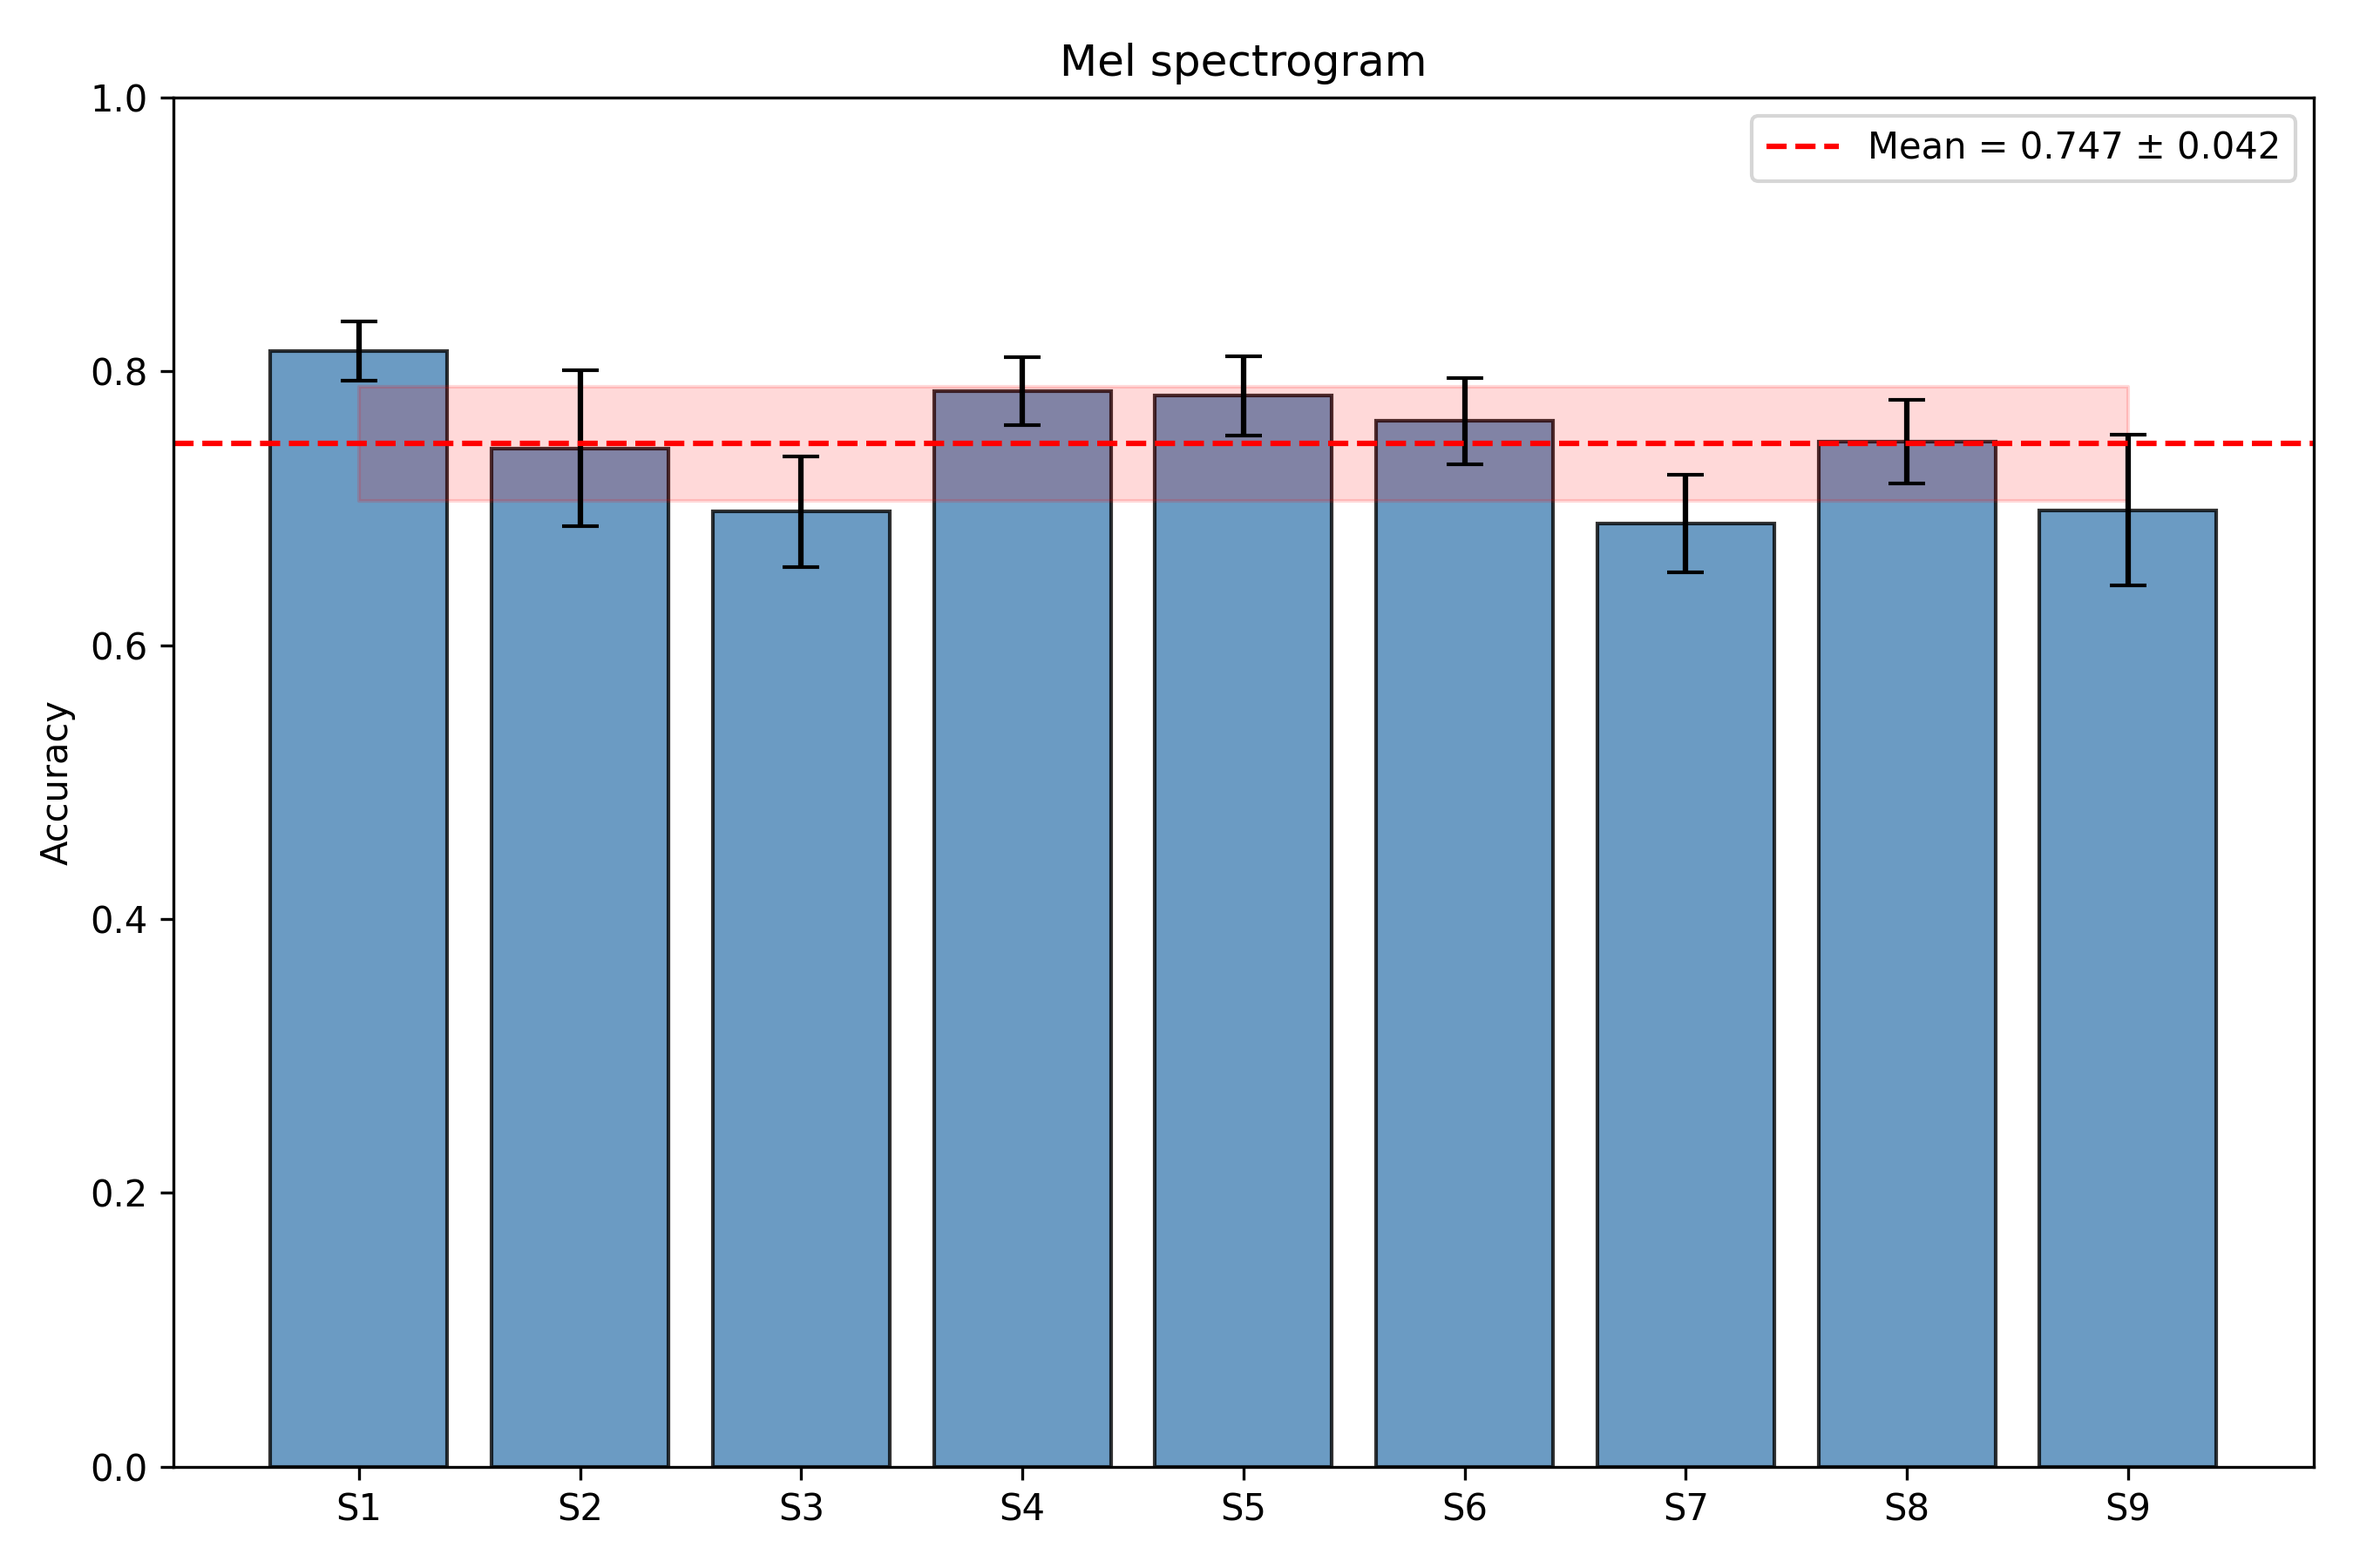
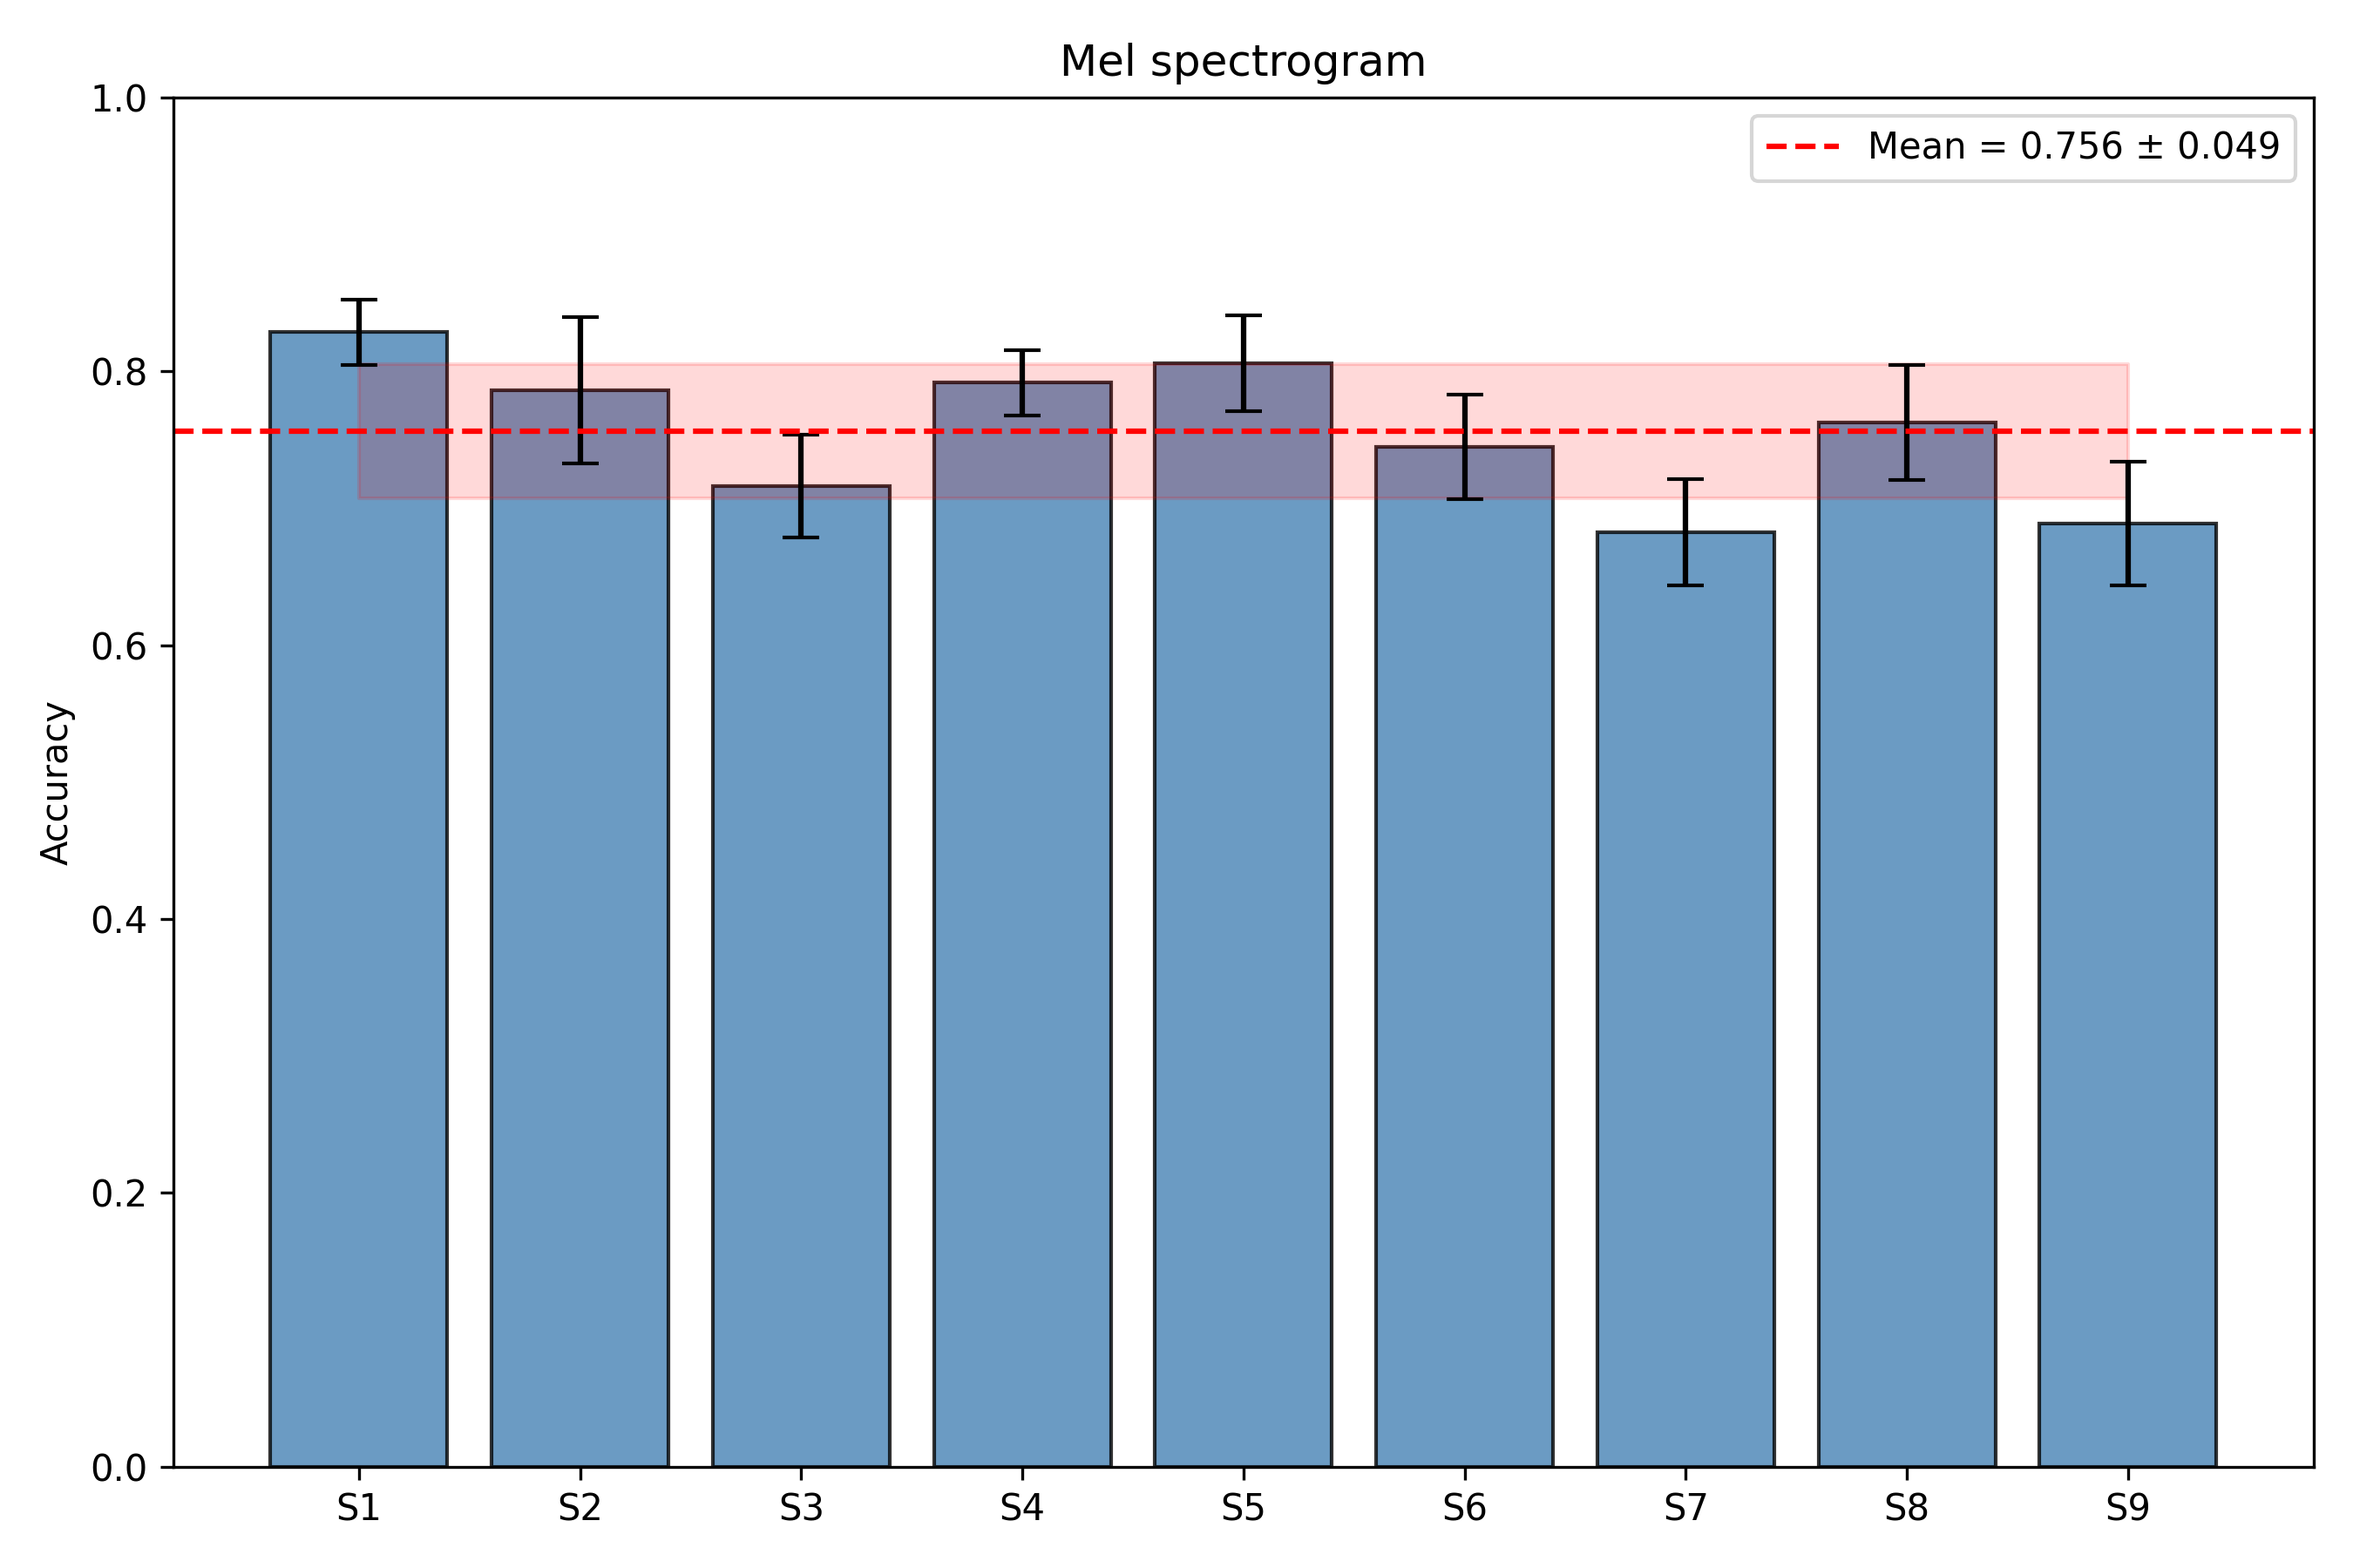
best

Changed region(s): [[0.1244, 0.1867, 0.9644, 0.3422]]

diff --git a/MEL_with_EEGNet_last.py b/MEL_with_EEGNet_last.py
@@ -14,7 +14,7 @@ DATA_DIR = "./dataset/"
 SAVE_DIR = "./Results_Mel"
 os.makedirs(SAVE_DIR, exist_ok=True)
 
-N_MELS, N_FFT, HOP = 32, 128, 64
+N_MELS, N_FFT, HOP = 16, 128, 32
 BATCH, EPOCHS, LR, SEED = 16, 50, 1e-3, 42
 torch.manual_seed(SEED); np.random.seed(SEED)
 
@@ -72,7 +72,7 @@ def load_bci2b_mel(path=DATA_DIR):
 # EEGNet
 # ------------------------------
 class EEGNet(nn.Module):
-    def __init__(self,chans,samples,n_classes=2,dropout=0.5,kernLength=64,F1=8,D=2,F2=16):
+    def __init__(self,chans,samples,n_classes=2,dropout=0.5,kernLength=16,F1=8,D=2,F2=16):
         super().__init__()
         self.conv1=nn.Conv2d(1,F1,(1,kernLength),padding=(0,kernLength//2),bias=False)
         self.bn1=nn.BatchNorm2d(F1)
@@ -198,5 +198,29 @@ def main_mel():
         results_mean.append(np.mean(accs)); results_std.append(np.std(accs))
         print(f" → Subject {subj}: {np.mean(accs):.3f} ± {np.std(accs):.3f}")
 
+            # =========================================
+    # ✅ 전체 결과 바그래프 (Mean ± SD 포함)
+    # =========================================
+    om, osd = np.mean(results_mean), np.std(results_mean)
+    np.savetxt(os.path.join(SAVE_DIR, "overall_summary.txt"), [om, osd], fmt="%.4f")
+
+    plt.figure(figsize=(9,6))
+    x = np.arange(len(subjects))
+    plt.bar(x, results_mean, yerr=results_std, capsize=5, color='steelblue', edgecolor='black', alpha=0.8)
+
+    # 평균선 + 범례에 Mean ± SD 표시
+    plt.axhline(om, color='red', linestyle='--', label=f'Mean = {om:.3f} ± {osd:.3f}')
+    plt.fill_between(x, om - osd, om + osd, color='red', alpha=0.15)
+
+    plt.xticks(x, [f"S{s}" for s in subjects])
+    plt.title("Mel spectrogram")
+    plt.ylabel("Accuracy")
+    plt.ylim(0, 1)
+    plt.legend()
+    plt.tight_layout()
+    plt.savefig(f"{SAVE_DIR}/AllSubjects_Bar.png", dpi=300)
+    plt.close()
+
 if __name__ == "__main__":
     main_mel()
+    
